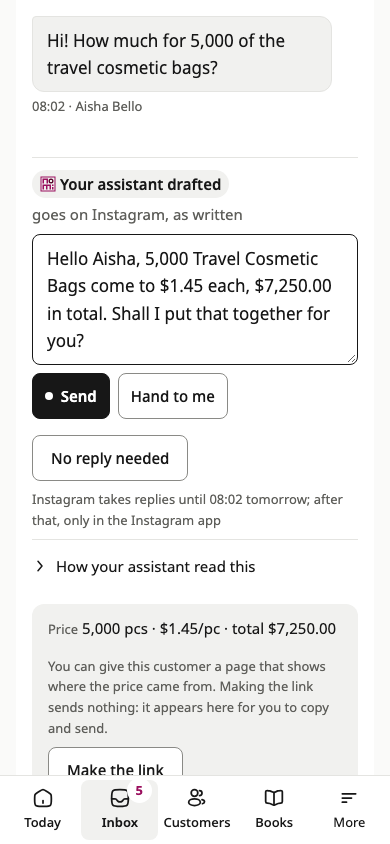
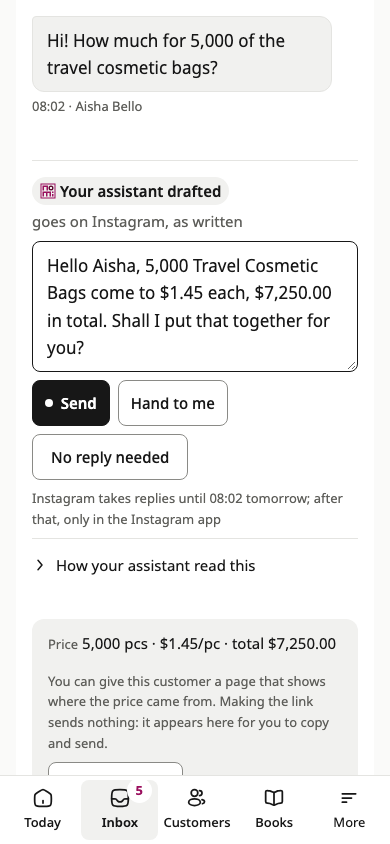
UI correction F-1, second pass (Block 1 fix round): on a phone nothing is stuck over anything; the thread gives the room
The supervisor's ruling: a block stuck above the tab bar still covered content (the head's lower rows at the top of
the page on 320x568 and at 200 % zoom; the newest message's time line at 390 in Arabic).

Nothing is sticky now. The reply's block (what it is, why it waits, the reply, Send and Hand to me) is in its own
place under the thread. Where the head, the thread and the block are taller than the screen, the page's script
measures how much and names the height the thread is held to (a 16 px step; the script sets no style), and the
thread becomes its own scroll region opened on its newest message, as on a desk, so Send ends above the bar at the
top of the page. Where even 96 px of thread would not make the room, or without script, the page is the plain page.

Measured (Chromium emulation, the tester's script): the reply's box under a control 0 px at every position at
390x844, 320x568 and 200 %; nothing of the head or the thread under anything at the top or at the newest message,
English and Arabic. 390x844: Send 712-758 at the top (bar 775), 380-426 at the newest message, under the bar at 0 of
46 scroll positions. 320x568 and 200 %: the plain page — at the top the reply is below the screen, at the newest
message it is whole with Send above the bar (447-493 / 499; 283-329 / 381); while scrolling Send passes behind the
bar as all content does (11 positions each). Desk unchanged.

The page script: 55,896 measured, its size pin 55,500 became 56,500, written beside it.

diff --git a/src/api/web/conversationStyle.ts b/src/api/web/conversationStyle.ts
@@ -1,4 +1,7 @@
 /** Shared Inbox conversation layout. All state colors and type come from the owner theme. */
+/** The heights the page's script may hold a phone's thread to (it sets no style itself: it names a step, 16 px apart). */
+const THREAD_ROOM = Array.from({ length: 31 }, (_, i) => 96 + 16 * i)
+  .map((h) => `  .conversation-workspace .conv-thread[data-room="${h}"] { max-block-size:${h}px; }`).join('\n');
 export const CONVERSATION_CSS = `
 .conversation-workspace { --font-voice:var(--font-family); display:block; min-width:0; background:var(--color-surface); }
 .conversation-workspace > .conv { min-width:0; padding:var(--space-16); background:var(--color-surface); }
@@ -19,23 +22,23 @@ export const CONVERSATION_CSS = `
   .conversation-workspace .conv-top .dhead > .live { order:4; flex-basis:100%; }
   .conversation-workspace .conv-top .conversation-actions > .file-door { order:5; flex-basis:100%; margin:0; }
 }
-/* A phone (t1r's decision 2, and the fix round of 2026-11-13): Send and Hand to me are never under the tab bar, and
-   never over the reply. What the reply is, why it waits, the reply and its two answers are ONE block, and the block
-   rests whole just above the bar (69 px: the bar's 60, its 4 + 4 of padding, its line; plus the phone's own inset)
-   wherever the page is scrolled, as a chat's writing box does: the thread and the head scroll above it, and at the
-   page's end it is in its place. The reply's box is held to a share of the screen and scrolls inside itself past
-   that, so the block leaves room to read. The two wrappers dissolve so the block can rest from the top of the page;
-   a window too short to hold it (a page zoomed far in) keeps the plain page. */
-@media (max-width:720px) and (min-height:420px) {
-  .conversation-workspace .conv-acts, .conversation-workspace .conv-acts > #approve { display:contents; }
-  .conversation-workspace #approve > .draft-dock { position:sticky; inset-block-end:calc(69px + env(safe-area-inset-bottom, 0px)); z-index:2;
-    padding-block:var(--space-12) var(--space-8); background:var(--color-surface); border-block-start:1px solid var(--color-border); }
-  .conversation-workspace #approve > .draft-dock textarea { max-block-size:max(4.5em, calc(60dvh - 150px)); }
+/* A phone (t1r's decision 2, and the fix rounds of 2026-11-13): Send and Hand to me are never under the tab bar, and
+   NOTHING rests over anything — no stuck row over the reply, no stuck block over the head or the thread. What the
+   reply is, why it waits, the reply and its two answers are one block (draft-dock) in its own place under the thread.
+   Where the head, the thread and that block are taller than the screen, the THREAD gives the room: the page's script
+   measures how much and names the height the thread is held to (a step of 16 px), as its own scroll region opened on its newest
+   message, exactly as on a desk — so the block ends just above the bar at the top of the page. Where even a short
+   thread (96 px) would not make the room (a small phone, a page zoomed far in), or without script, the page is the
+   plain page: everything in order, scrolled as any page is. The reply's box is held to a share of the screen and
+   scrolls inside itself past that. */
+@media (max-width:720px) {
+  .conversation-workspace .conv-thread { overflow-y:auto; overscroll-behavior:contain; display:flex; flex-direction:column-reverse; }
+  .conversation-workspace .conv-thread-in { margin-block-end:auto; }
+${THREAD_ROOM}
+  .conversation-workspace #approve .draft-dock textarea { max-block-size:max(4.5em, calc(60dvh - 150px)); }
   /* A door lands on the newest message near the top of the screen here (a quarter down elsewhere): the room under it
-     is the block's. */
+     is the reply's. */
   .conversation-workspace:has(.draft-dock) #latest { scroll-margin-top:var(--space-16); }
-  .conversation-workspace #approve > .acts-more, .conversation-workspace #approve > details { margin-block-start:var(--space-8); }
-  .conversation-workspace #approve > :last-child { margin-block-end:var(--space-16); }
 }
 /* A desk: the page's help door sits in the corner; the row keeps clear of it. */
 @media (min-width:1100px) { .conversation-workspace .conv-top .dhead { padding-inline-end:var(--space-48); } }

diff --git a/src/api/web/liveScript.ts b/src/api/web/liveScript.ts
@@ -507,6 +507,24 @@ export const LIVE_SCRIPT = `/* Nomi: the line a page shows when something new ar
     box.addEventListener('click', function (e) { if (e.target === box) shut(); });
   }
 
+  /* F12 on a phone: where the head, the thread and the reply to act on are taller than the screen, the thread gives
+     the room (its own scroll region), so the reply's two answers end above the tab bar and nothing covers anything. */
+  function room() {
+    var w = doc.querySelector('[data-conversation]');
+    if (!w || !window.matchMedia) return;
+    var d = w.querySelector('.draft-dock'), t = w.querySelector('.conv-thread'), bar = doc.querySelector('nav.side');
+    if (!d || !t || !bar) return;
+    function fit() {
+      t.removeAttribute('data-room');
+      if (!matchMedia('(max-width:720px)').matches) return;
+      var over = d.getBoundingClientRect().bottom + window.pageYOffset - bar.getBoundingClientRect().top, h = t.offsetHeight - over;
+      if (over > 0 && h >= 96) t.setAttribute('data-room', String(Math.min(576, 16 * Math.floor(h / 16))));
+    }
+    window.addEventListener('resize', fit);
+    if (window.ResizeObserver) new ResizeObserver(fit).observe(d);
+    fit();
+  }
+
   /* F21: a select marked data-echo has its choice written out under it when the words are wider than its box. */
   function echoes() {
     var all = doc.querySelectorAll('select[data-echo]'), pen;
@@ -1031,6 +1049,7 @@ export const LIVE_SCRIPT = `/* Nomi: the line a page shows when something new ar
   sending();
   totals();
   echoes();
+  room();
   orbs();
   cards();
   faces();

diff --git a/tests/parity/live-refresh.test.ts b/tests/parity/live-refresh.test.ts
@@ -120,7 +120,9 @@ describe('CC-26 · the shell links the one script, and nothing else does', () =>
     // Area 2 adds the optional conversation panel, scroll restoration and stale-request-safe reply insertion (about 7 KB) to the same deferred script.
     // The UI correction's fix round (2026-11-13, F21): a select's choice written out under it when its box is too narrow
     // to show it whole (the Advanced entry's account, party and tax code) — 54,888 measured; 54,000 became 55,500, deliberately.
-    expect(LIVE_SCRIPT.length, 'small: one file an owner fetches once per build').toBeLessThan(55_500);
+    // The same round, F12 on a phone: the thread measured so it gives the room the reply's block needs above the tab bar
+    // (nothing stuck over anything; the supervisor's order of 2026-11-13) — 55,896 measured; 55,500 became 56,500, deliberately.
+    expect(LIVE_SCRIPT.length, 'small: one file an owner fetches once per build').toBeLessThan(56_500);
     // The warmth run's re-audit (w4-whole-03/05/22/23, w4-settings-a-15): the rail's words kept on update, the card held while
     // read, a pressed face's busy state, the same-page door, the form checked before asking — 22,451 measured, raised deliberately.
     expect(() => new vm.Script(LIVE_SCRIPT)).not.toThrow();

diff --git a/docs/design/ui-correction/block1/README.md b/docs/design/ui-correction/block1/README.md
@@ -70,21 +70,22 @@ running app (Chromium emulation; no physical phone). `fix2-*` images are the "af
 
 - **The stuck Send row covered the reply.** Before: the row hid 54 of the box's 131 px at the top of the page on
   390×844, left 29 px readable at the newest message on 320×568, and hid 54 of 77 px at 200 % zoom (82 % at worst).
-  Now what the reply is, why it waits, the reply and its two answers are one block that rests whole above the tab bar,
-  as a chat's writing box does; the head and the thread scroll above it. After: 0 px of the box under the row at every
-  scroll position at all three sizes; Send under the bar at 0 of 49, 0 of 94 and 0 of 69 positions (320 and 200 % had
-  11 each); at the newest message nothing is under the block at any of the three; the desk is unchanged.
+  Now nothing is stuck over anything. What the reply is, why it waits, the reply and its two answers are one block in
+  its own place under the thread; where the head, the thread and that block are taller than the screen, the thread
+  gives the room (its own scroll region, opened on its newest message, as on a desk), so Send ends above the tab bar
+  at the top of the page. After: 0 px of the reply, the head or the thread under any control at every scroll position
+  at 390×844, 320×568 and 200 % zoom; at 390×844 Send is above the bar at the top (712–758, bar 775), at the newest
+  message and at 0 of 46 scroll positions; the desk is unchanged.
   [390 top](fix2-f1-conversation-390-top.png) · [390 newest](fix2-f1-conversation-390-latest.png) ·
   [390 typing](fix2-f1-conversation-390-typing.png) · [390 Arabic](fix2-f1-conversation-390-latest-ar.png) ·
   [320 top](fix2-f1-conversation-320-top.png) · [320 newest](fix2-f1-conversation-320-latest.png) ·
   [200 % top](fix2-f1-conversation-zoom200-top.png) · [200 % newest](fix2-f1-conversation-zoom200-latest.png) ·
   [desk](fix2-conversation-desktop.png).
-  **Still open:** the block rests over whatever of the page is behind it, as a chat's writing box does, and the page
-  scrolls to show it. At the very top of the page that can be the end of the head or of the thread: at 320×568 and
-  at 200 % zoom the head is taller than the room above the block, so its lower rows and the first message are under
-  the block until the page is scrolled 100–190 px; at 390×844 in Arabic the newest message's time line is. Landing on
-  the newest message (as the Inbox's rows do) shows the message, the block and nothing under it at all three sizes.
-  Tapping the box scrolls the page to the block's own place (the browser's doing).
+  **Known:** at 320×568 and at 200 % zoom the head alone leaves less room than the reply needs, so the page there is
+  the plain page: at the top the reply is below the screen (not shown, not under the bar), at the newest message it
+  is whole with Send above the bar, and while scrolling it comes up from behind the bar as all content does (Send
+  for about 110 px of scroll). The thread's measure is the page script's; without script every phone gets the plain
+  page.
 - **A control's edge under 3:1.** Hand to me and No reply needed, Today's reply box, the Inbox's search field and Ask
   Nomi's question box were 1.27:1 (1.22:1); each is the control edge now (3.5:1 on white, 3.3:1 on the canvas). A
   sweep by computed style over 47 signed-in pages at 1440 and 390 found 5 before and 0 after.
